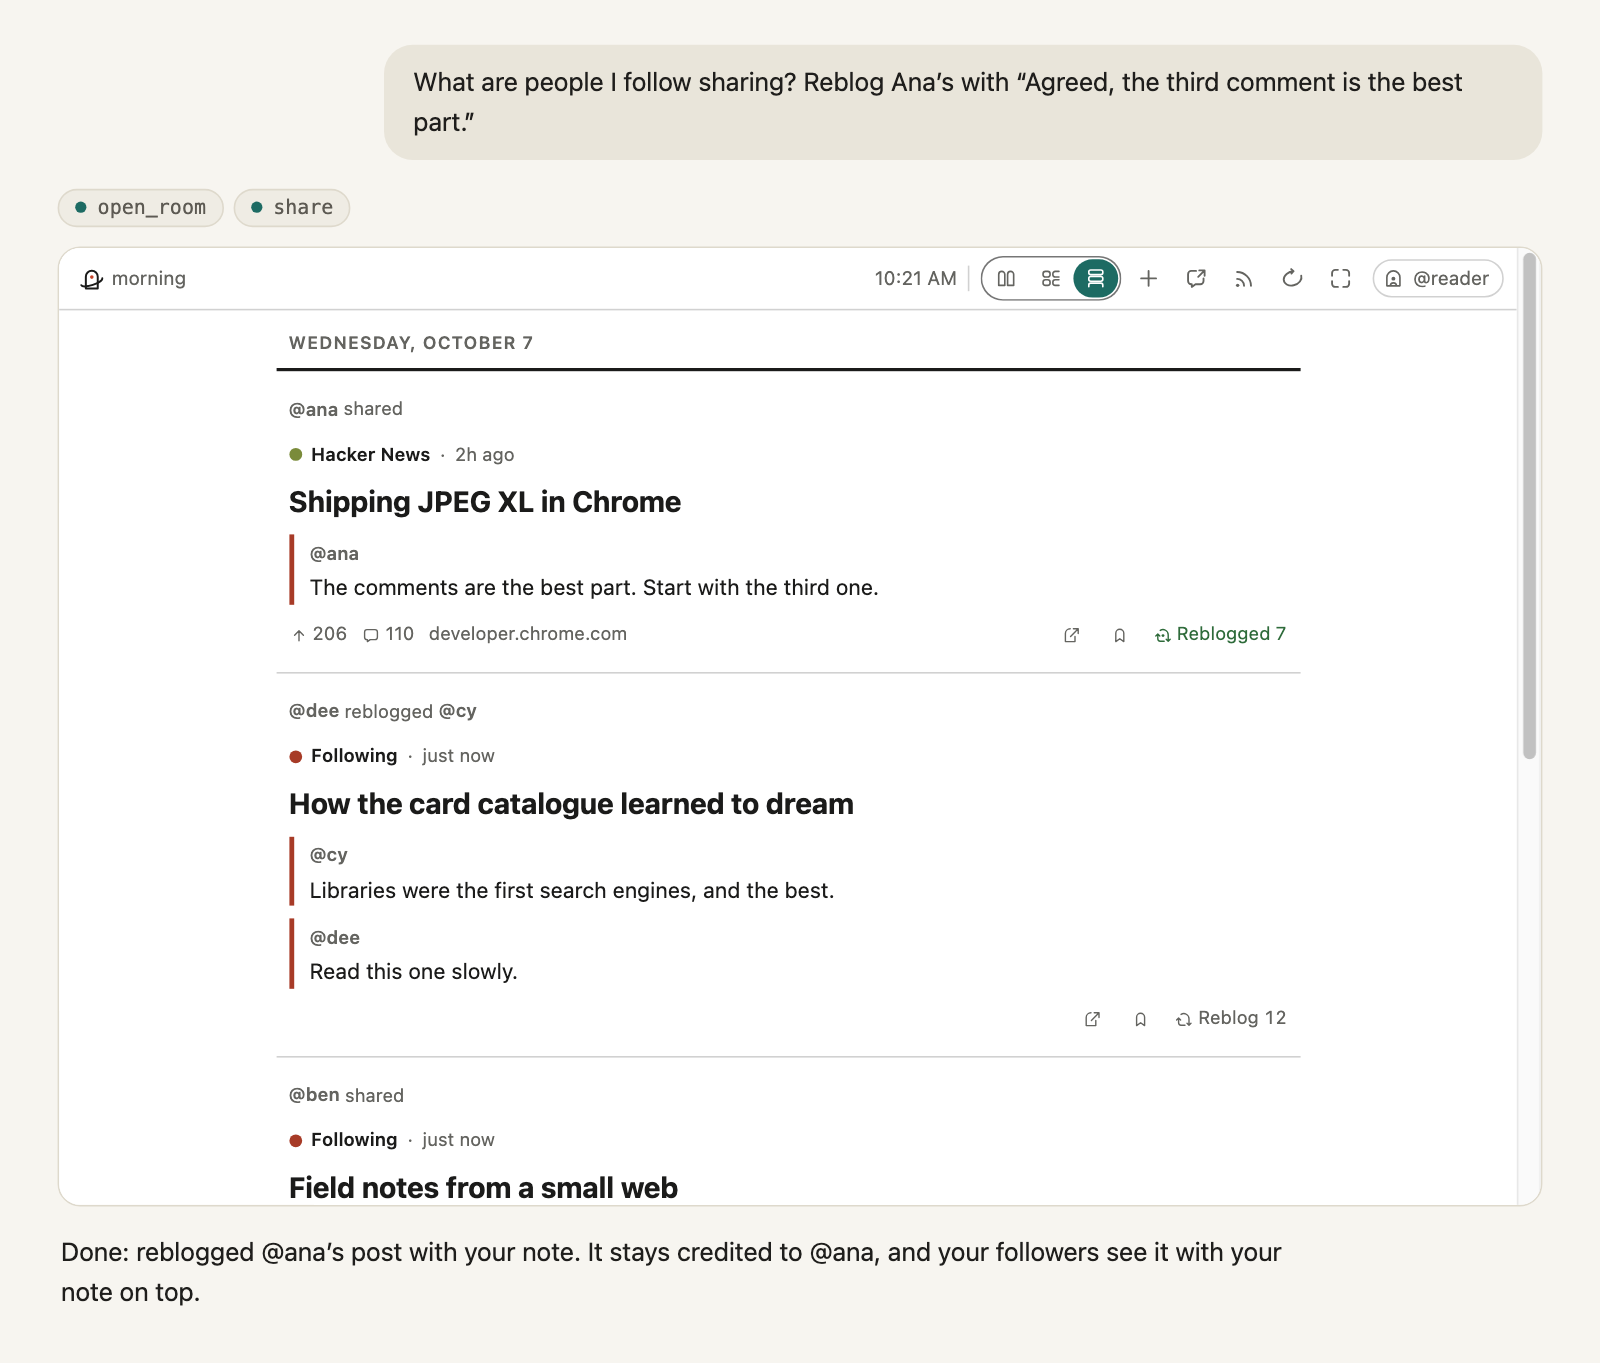
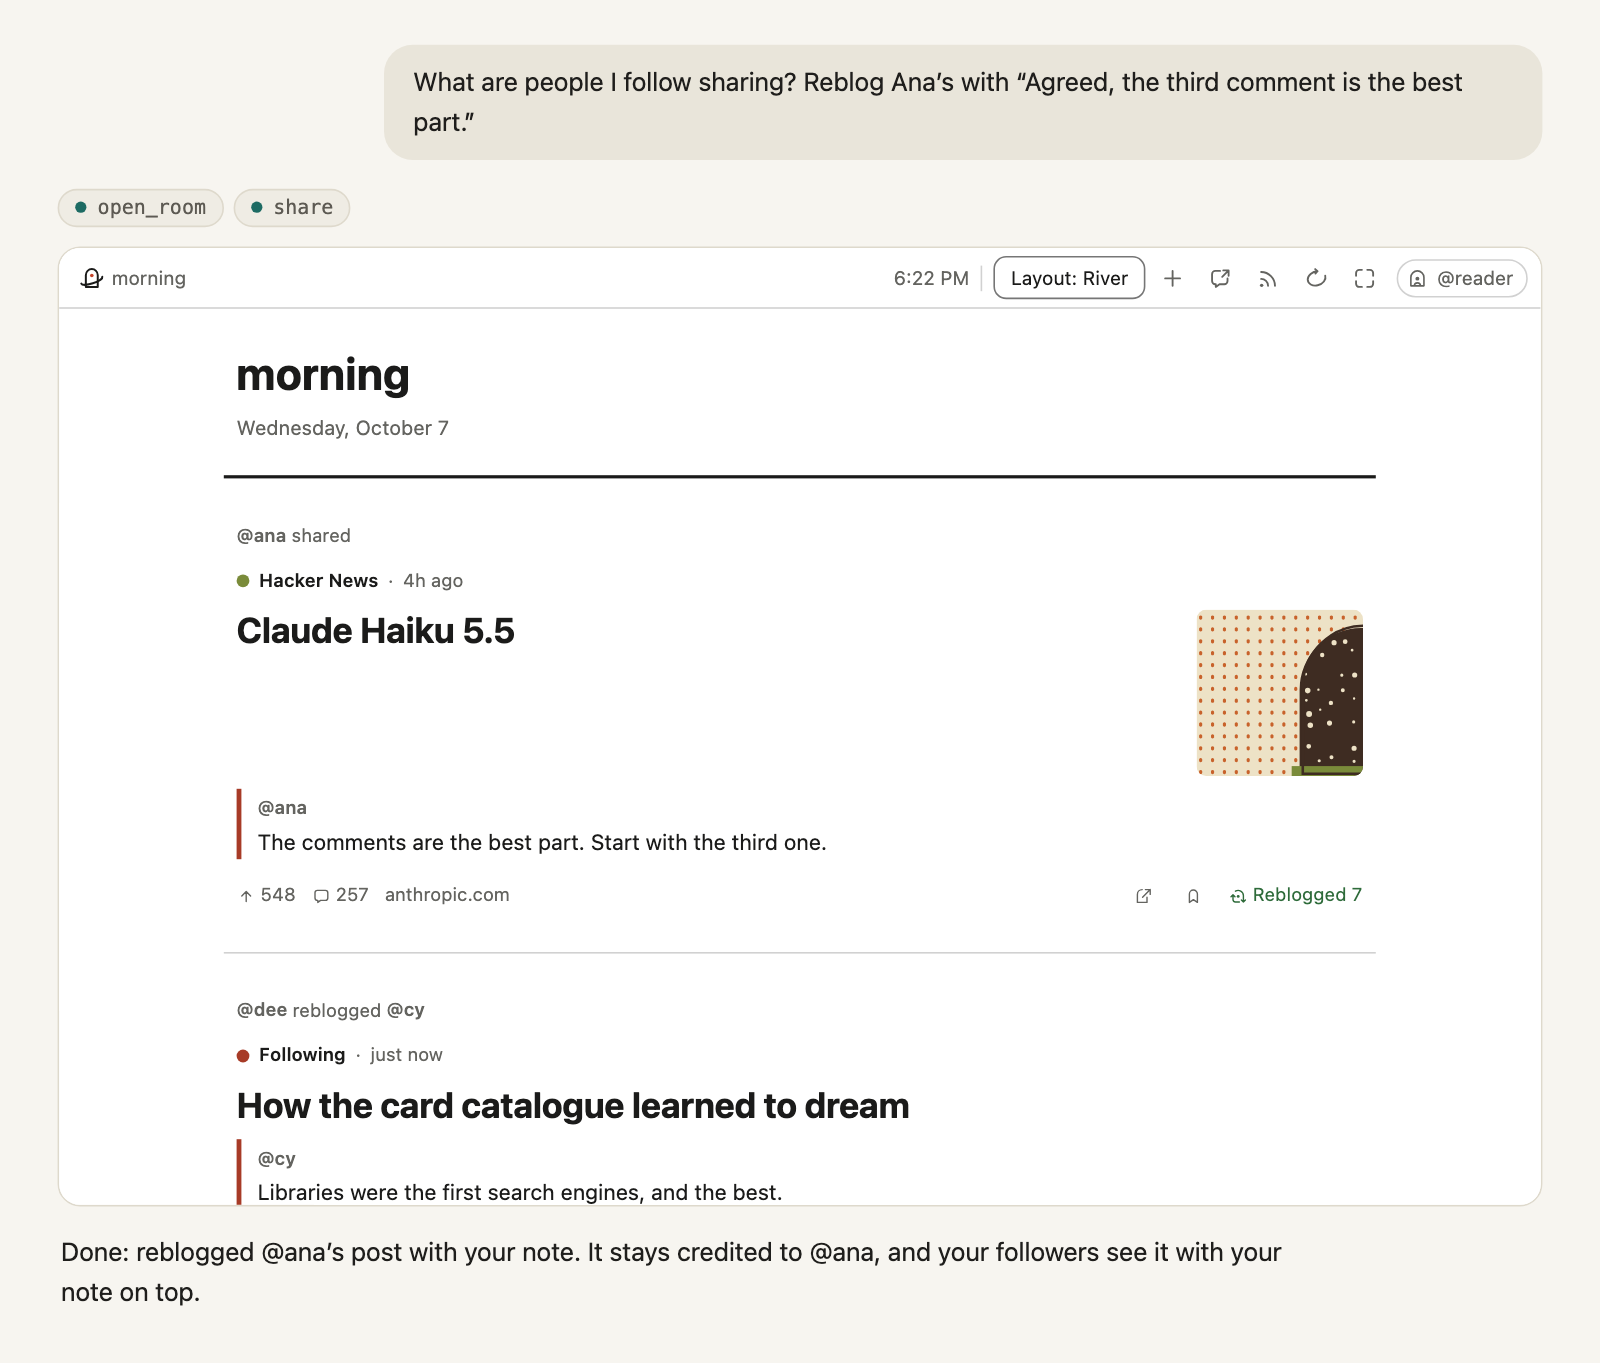
Refresh room screenshots and place layout notes under Unreleased

diff --git a/CHANGELOG.md b/CHANGELOG.md
@@ -2,6 +2,10 @@
 
 ## Unreleased
 
+### Room layouts
+- Columns gets illustrated source headers and clearer story rows; Shelves gets consistent cover strips, summaries and visible actions; River gets a room heading, a more readable story hierarchy and source art. Shelf arrows reflect the available scroll direction.
+- Catalogue, Editorial and Paperback join the room's layout choices. A named toolbar chooser saves each person's preference to their profile, keeping their sources and saved items. The three designs adapt to narrow screens and the host's theme.
+
 ## v0.10.0 — 2026-10-07
 
 ### Spaces that feel like someone's
@@ -12,8 +16,6 @@
 - **Linked clients must update to 0.10.0:** `accent` becomes `ink`/`motif`, and the share audience `mcportal` becomes `everyone`. The state API's minimum client version is raised in this release. Hosted connectors update with the deployment; local clients and plugins need the new release.
 
 ### Room layouts
-- Columns gets illustrated source headers and clearer story rows; Shelves gets consistent cover strips, summaries and visible actions; River gets a room heading, a more readable story hierarchy and source art. Shelf arrows reflect the available scroll direction.
-- Catalogue, Editorial and Paperback join the room's layout choices. A named toolbar chooser saves each person's preference to their profile, keeping their sources and saved items. The three designs adapt to narrow screens and the host's theme.
 - River is a standard layout, available without a lab flag.
 - Reader and source controls stay visible while scrolling, stacking below the main toolbar. Rows wrap on narrow screens, and docs navigation and restored passages account for their height.
 
